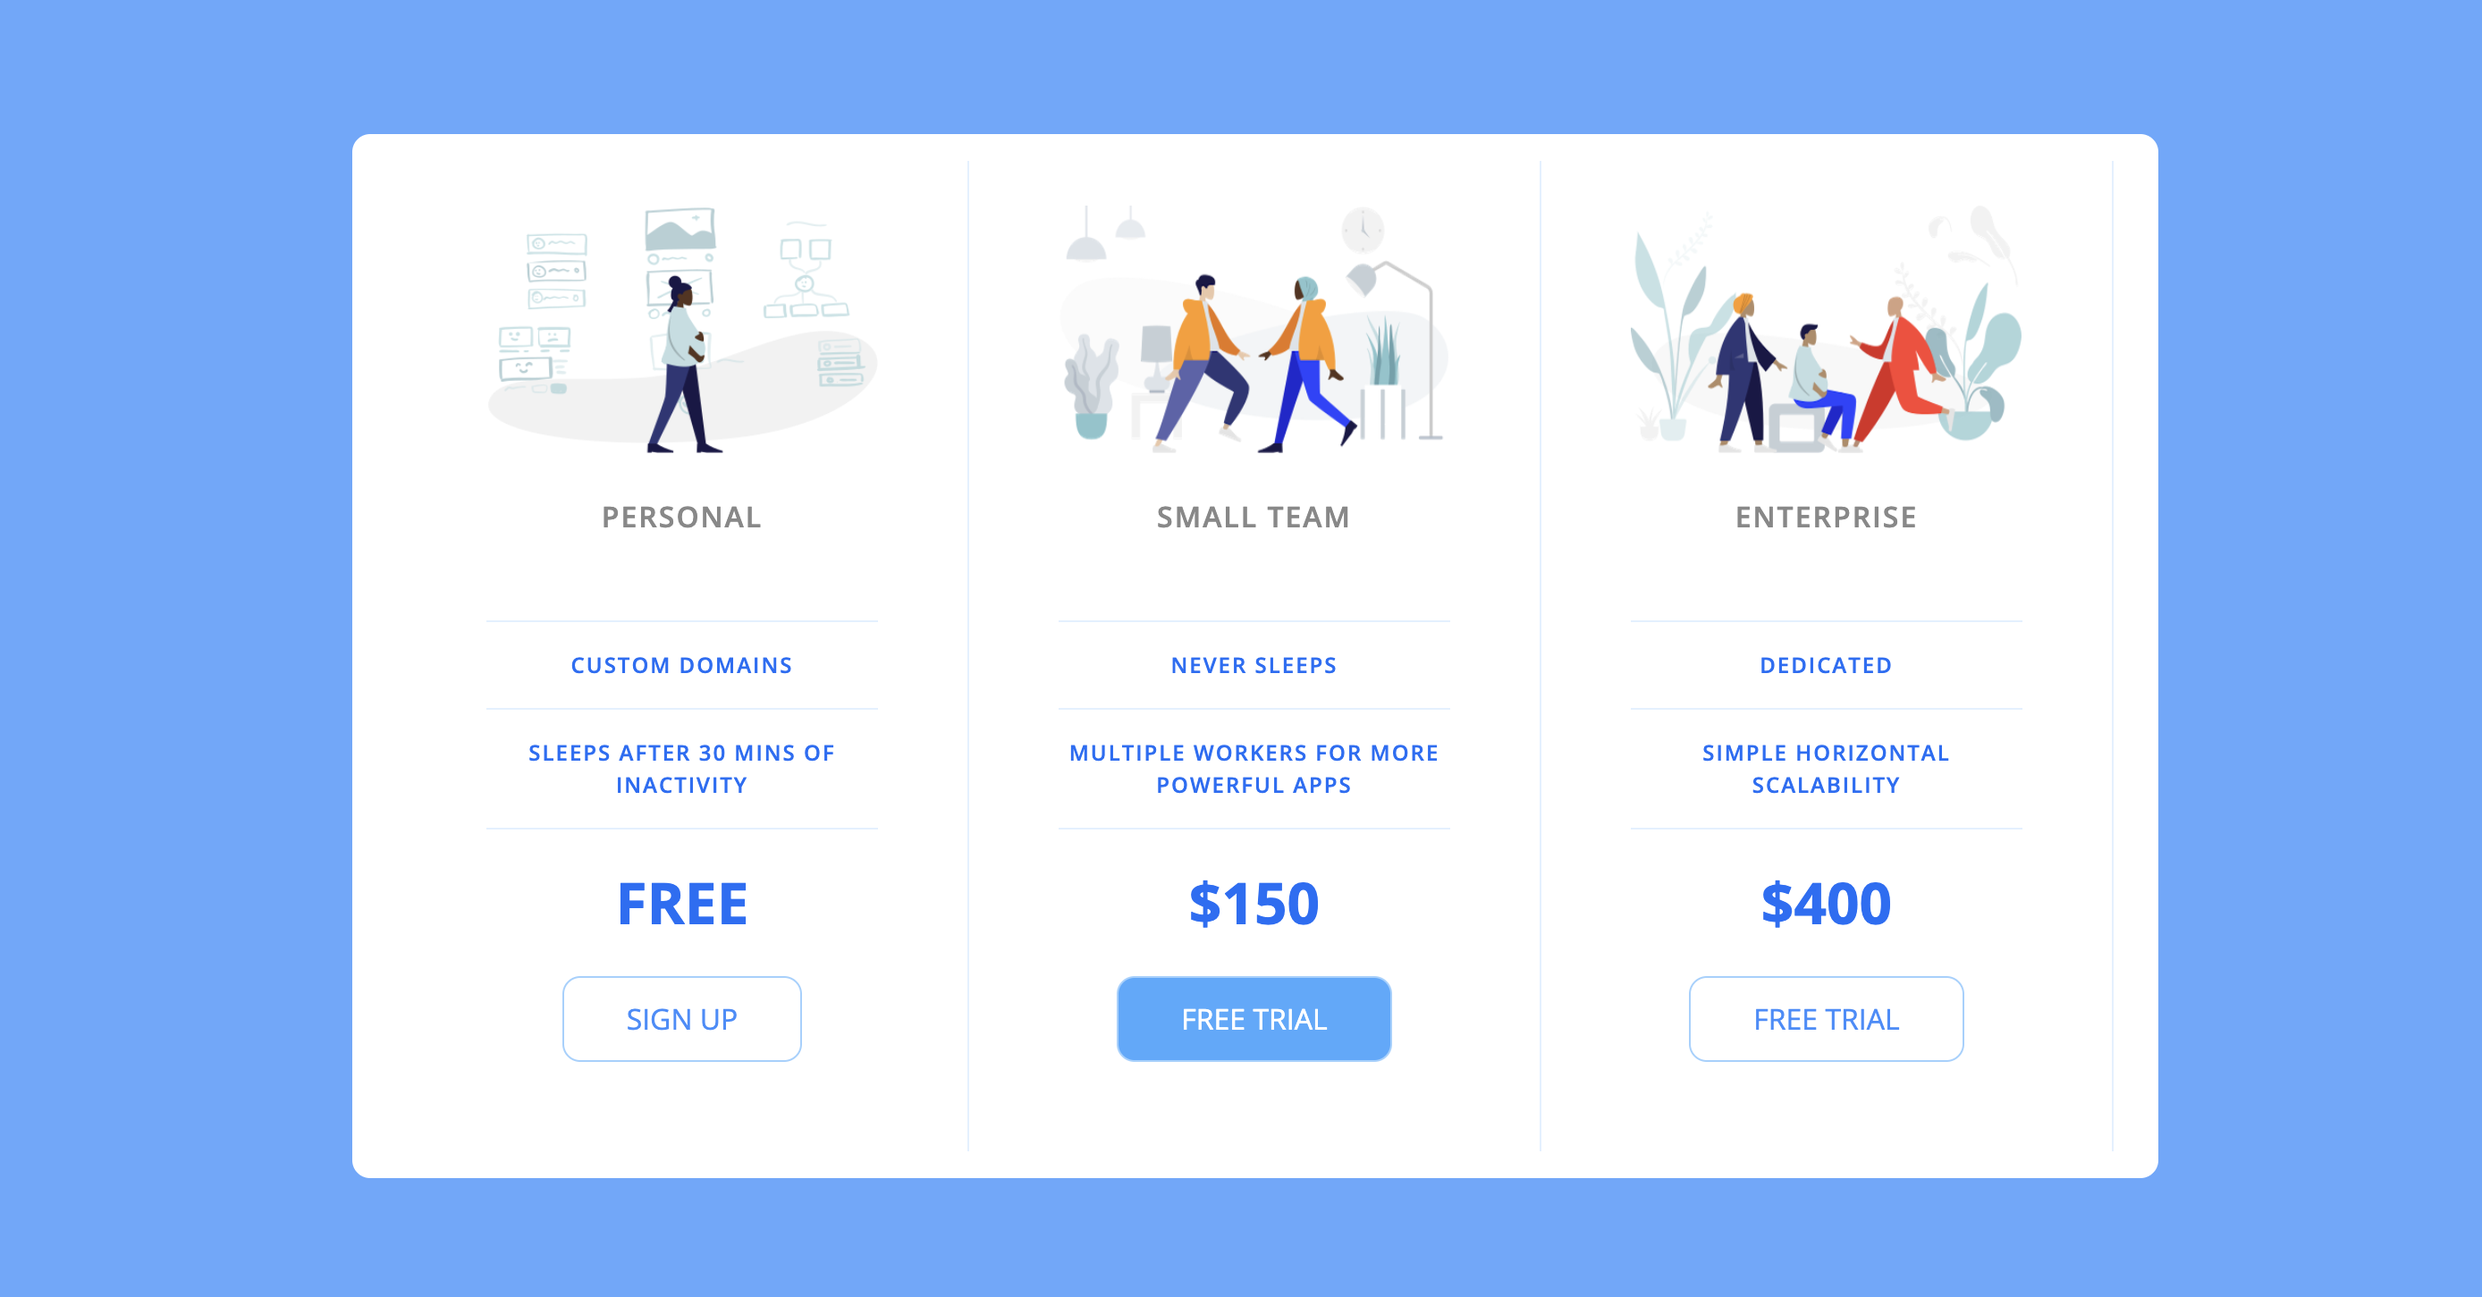
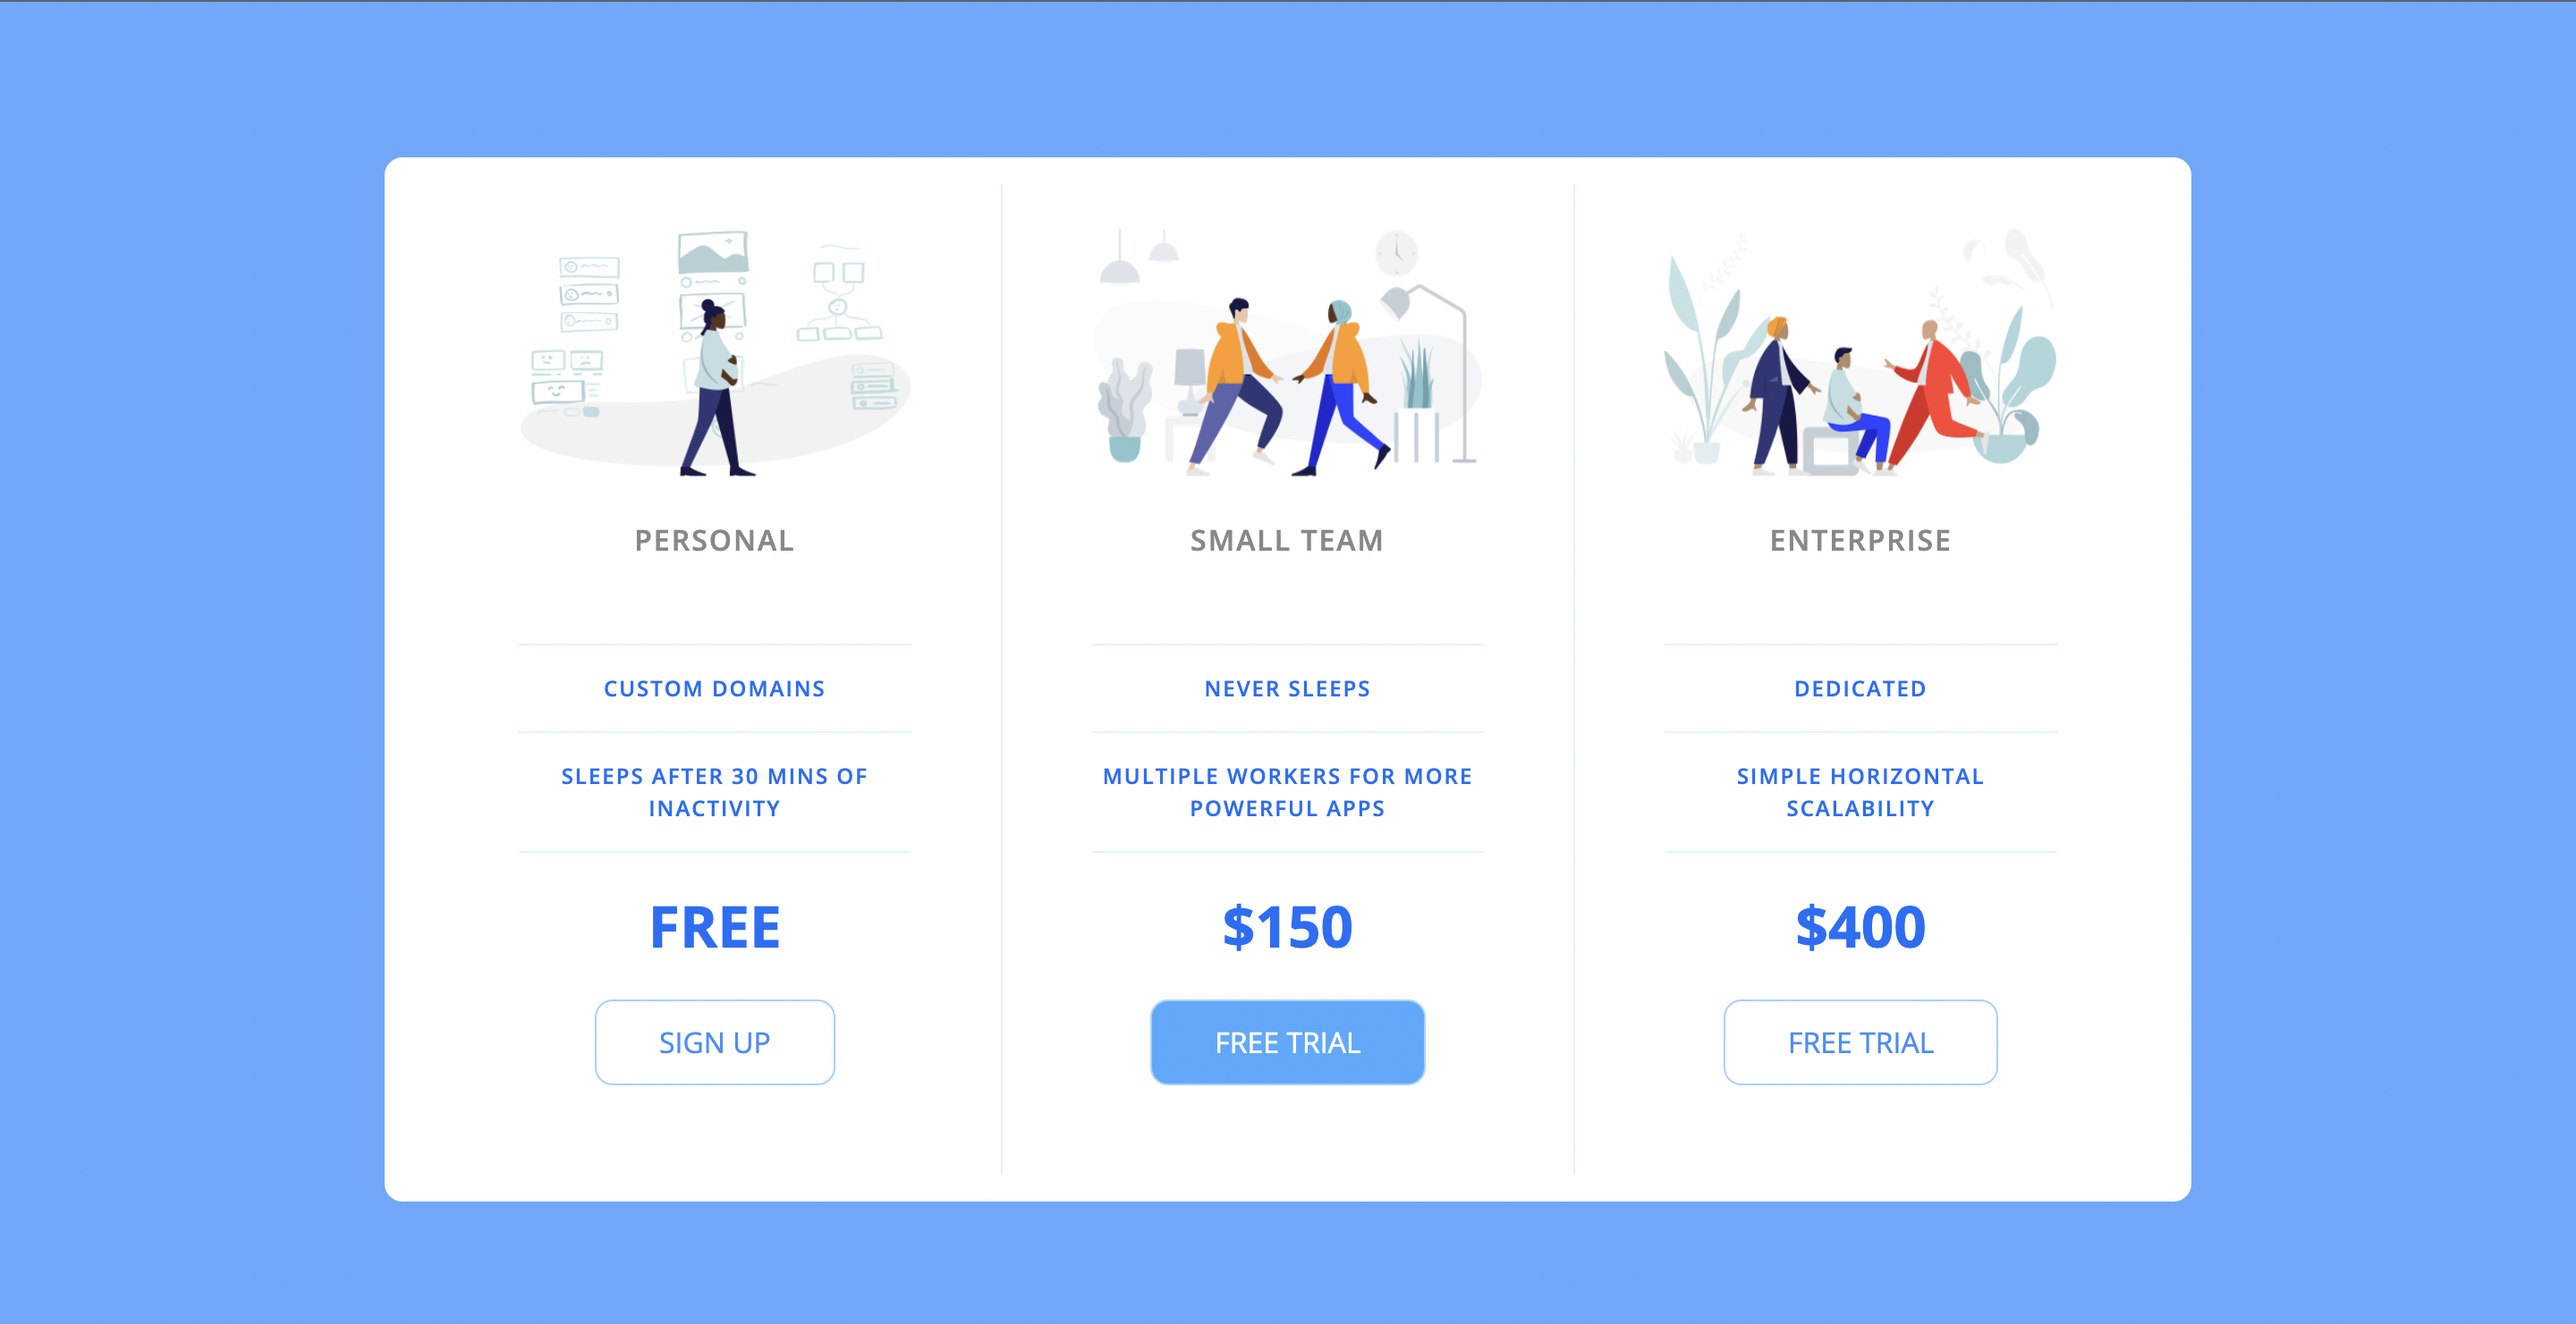
changed last three lines of css and changed desktop screenshot

diff --git a/PriceTable/app.css b/PriceTable/app.css
@@ -242,7 +242,7 @@ body {
         padding: 25px 50px;
     }
 
-    .pricing-plan: :last-child {
+    .pricing-plan:last-child {
         border-right: none;
     }
 }
